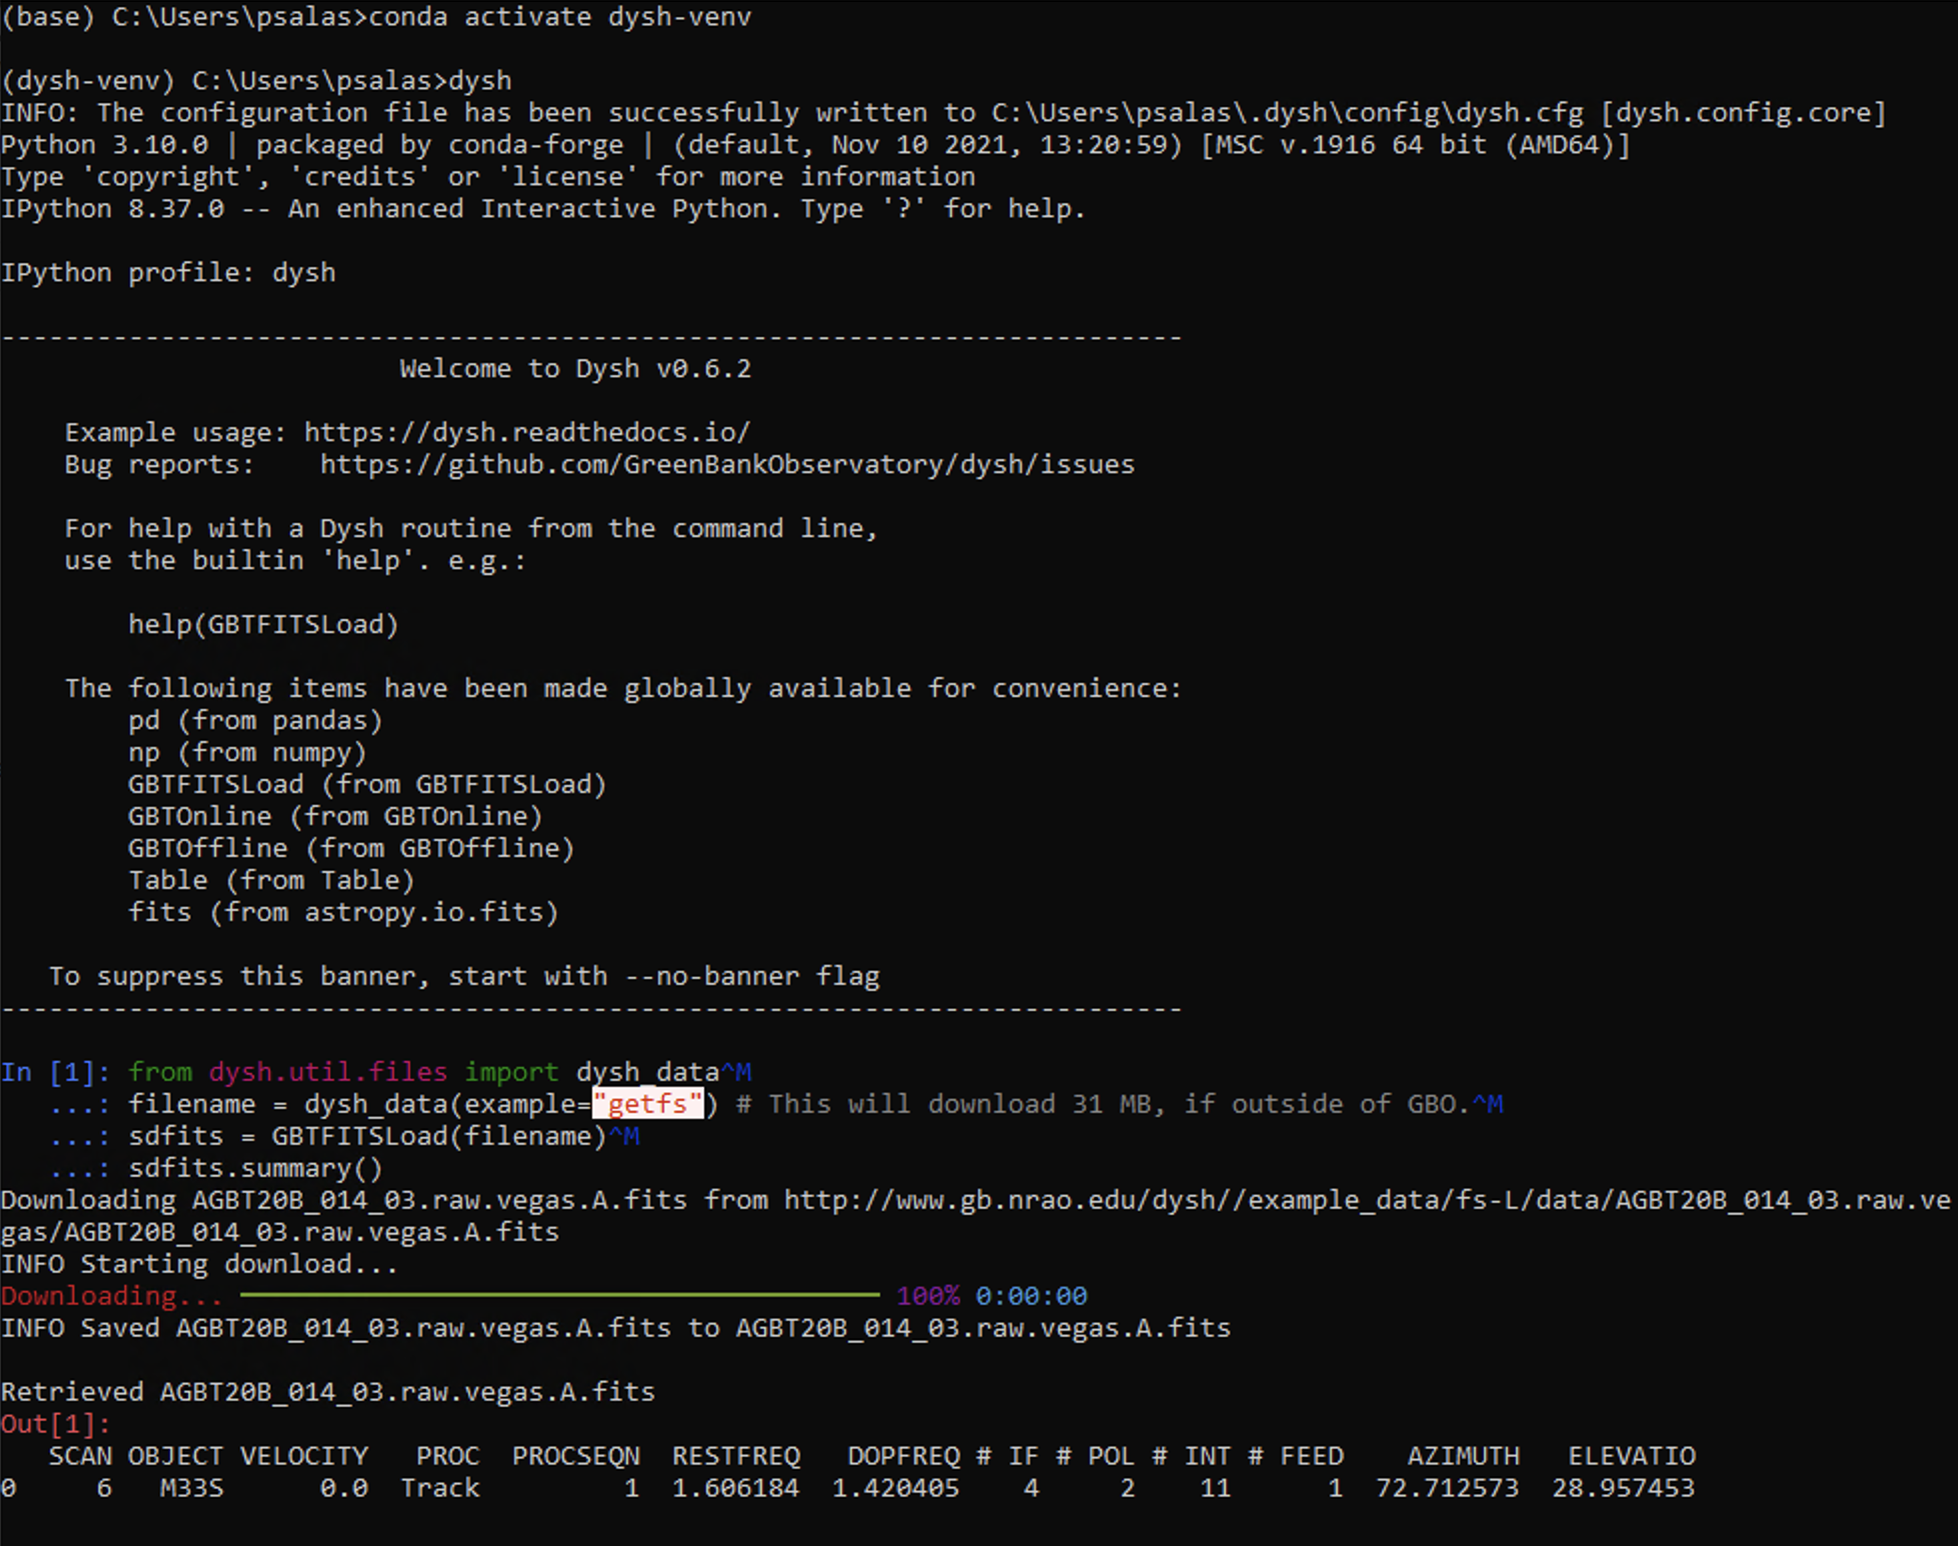
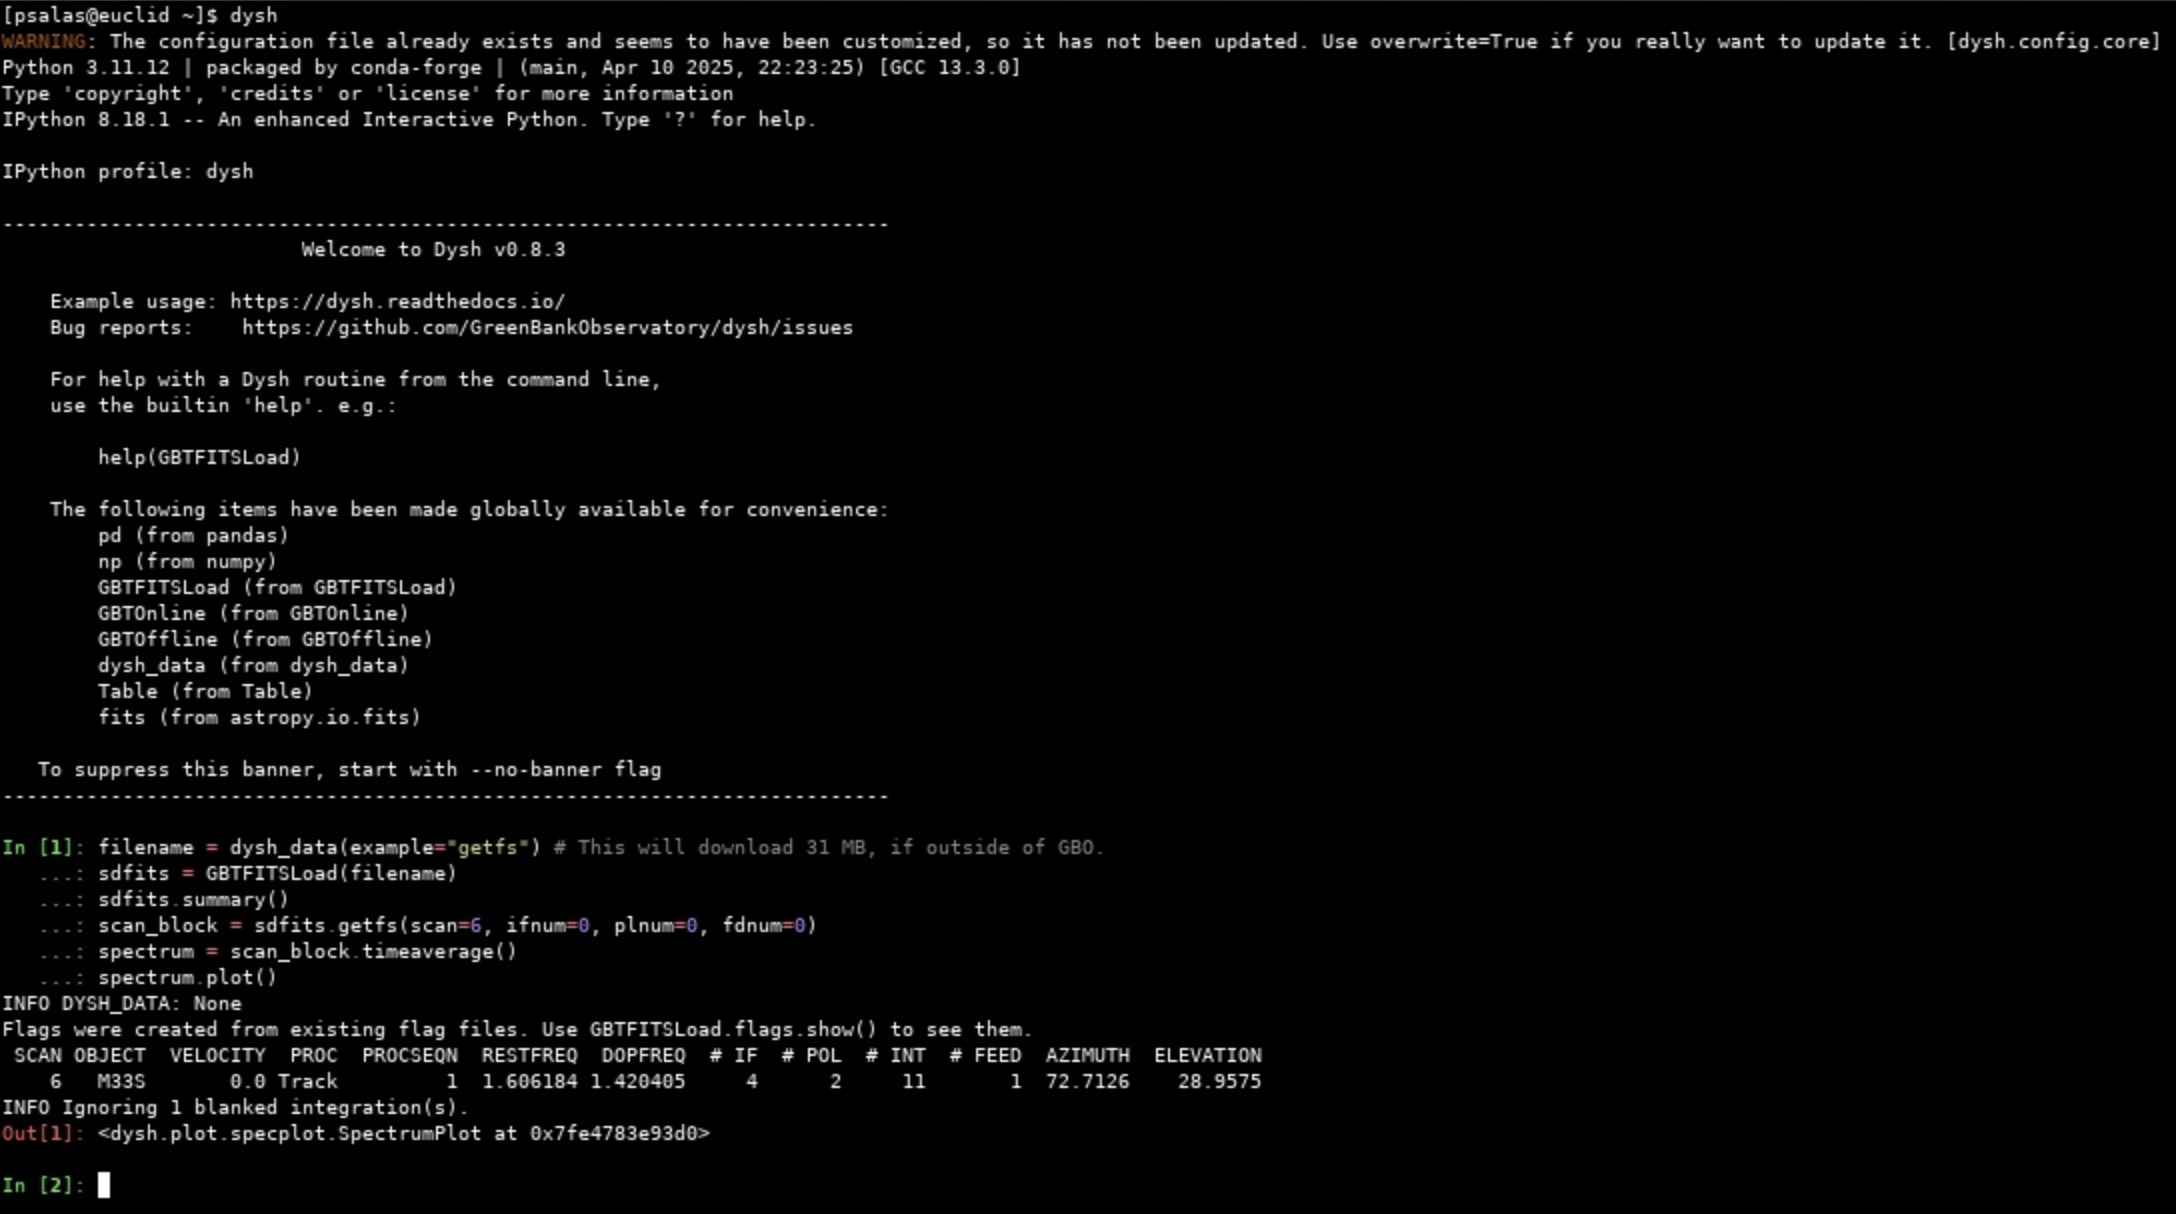
docs: update beta testing page and add plotting check for getting started

Changed region(s): [[0.0, 0.0, 0.9969, 1.0]]

diff --git a/docs/source/for_beta_testers/beta_testing.rst b/docs/source/for_beta_testers/beta_testing.rst
@@ -16,7 +16,7 @@ Providing feedback
 
 If you encounter a problem with `dysh`, would like to request a new feature or enhancement or would like to leave feedback, please do so using `GitHub issues <https://github.com/GreenBankObservatory/dysh/issues>`_. There are some basic instructions of how to do this :ref:`here <githubissues>`. This requires `creating a free account <https://github.com/>`_ on GitHub if you do not have one.
 
-If you prefer not to create a GitHub account, please provide your feedback to the `dysh-beta mailing list <https://groups.google.com/g/dysh-beta/about>`_, or send an email to dysh-beta@googlegroups.com. Additionally, we provide a `form for collecting feedback <https://forms.gle/gf9rydgNE8v7iDKR8>`_.
+If you prefer not to create a GitHub account, please provide your feedback to the `dysh-beta mailing list <https://groups.google.com/g/dysh-beta/about>`_, or send an email to dysh-beta@googlegroups.com.
 
 When providing feedback, please indicate
 
@@ -46,7 +46,8 @@ Installing `dysh`
 =================
 
 Here we provide additional installation steps that include creating a virtual environment to keep `dysh` isolated from your system `Python` version.
-We provide steps for working in one of `GBO data reduction hosts <ihttps://greenbankobservatory.org/portal/gbt/processing/#data-reduction-machines>`_ (e.g., fourier), and if you're working outside one of the GBO data reduction hosts. The provided command will install `dysh` and `jupyterlab`, which can be used to run the example notebooks locally.
+We provide steps for working in one of `GBO data reduction hosts <https://greenbankobservatory.org/portal/gbt/processing/#data-reduction-machines>`_ (e.g., fourier), and if you're working outside one of the GBO data reduction hosts.
+The provided commands will install `dysh` and `jupyterlab`, which can be used to run the example notebooks locally.
 Please remember that as of version 0.4 `dysh` requires `Python3.10+`.
 
 .. tab:: At GBO
@@ -109,7 +110,7 @@ Please remember that as of version 0.4 `dysh` requires `Python3.10+`.
 
     It should print 0.8.3.
 
-`dysh` is installed in the GBO data reduction hosts, however, it may not be the latest version.
+`dysh` is installed in the GBO data reduction hosts, however, it may not be the same version used for beta testing.
 You can launch it using
 
 .. code:: bash
@@ -122,8 +123,16 @@ Previous beta releases
 
 Feedback on previous beta releases is also welcome. Here you can find links to previous beta release documents.
 
+
+0.8.3
+-----
+
+`Instructions <https://docs.google.com/document/d/15Ip2YkEaG2oOoCuKAYe1pGTkuB-abHLQYazIKXiCVXw/edit?usp=sharing>`_.
+
 0.4.2
 -----
+
+`Instructions <https://docs.google.com/document/d/1ph49_9LfUeIpvR8prWq4Q5RKQfwXV01EKMZMOnkAS8w/edit?usp=sharing>`_ and `questionnaire <https://forms.gle/gf9rydgNE8v7iDKR8>`_.
 
 0.3.0
 -----

diff --git a/docs/source/getting_started/index.rst b/docs/source/getting_started/index.rst
@@ -1,5 +1,5 @@
-.. |minver| replace:: ``0.7.0``
-.. |minpatch| replace:: ``0.7.1``
+.. |minver| replace:: ``0.8.3``
+.. |minpatch| replace:: ``0.8.4``
 .. |pymin| replace:: 3.10
 .. |pymax| replace:: 3.12
 .. |pyupp| replace:: 3.13
@@ -293,9 +293,18 @@ This quick example will download a 31 MB file to the current directory.
         filename = dysh_data(example="getfs") # This will download 31 MB, if outside of GBO.
         sdfits = GBTFITSLoad(filename)
         sdfits.summary()
+        scan_block = sdfits.getfs(scan=6, ifnum=0, plnum=0, fdnum=0)
+        spectrum = scan_block.timeaverage()
+        spectrum.plot()
 
 This should look like
 
 .. image:: img/dysh-quickstart.png
     :width: 800
     :alt: Terminal showing how to activate dysh, and launch the CLI interface. In the dysh CLI it download a file, loads it and prints a summary of its contents. There is a single scan of M33.
+
+And the plot command should produce the following figure
+
+.. image:: img/dysh-quickstart-plot.png
+    :width: 800
+    :alt: A frequency switched spectrum calibrated and displayed using dysh.
